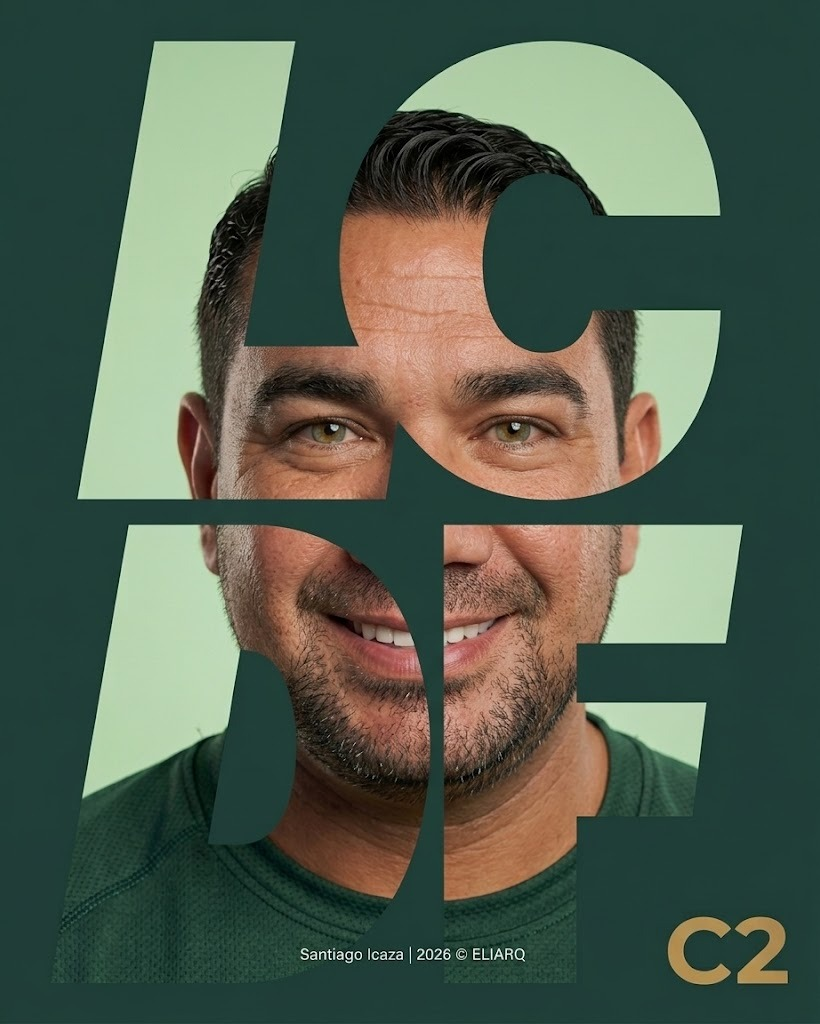
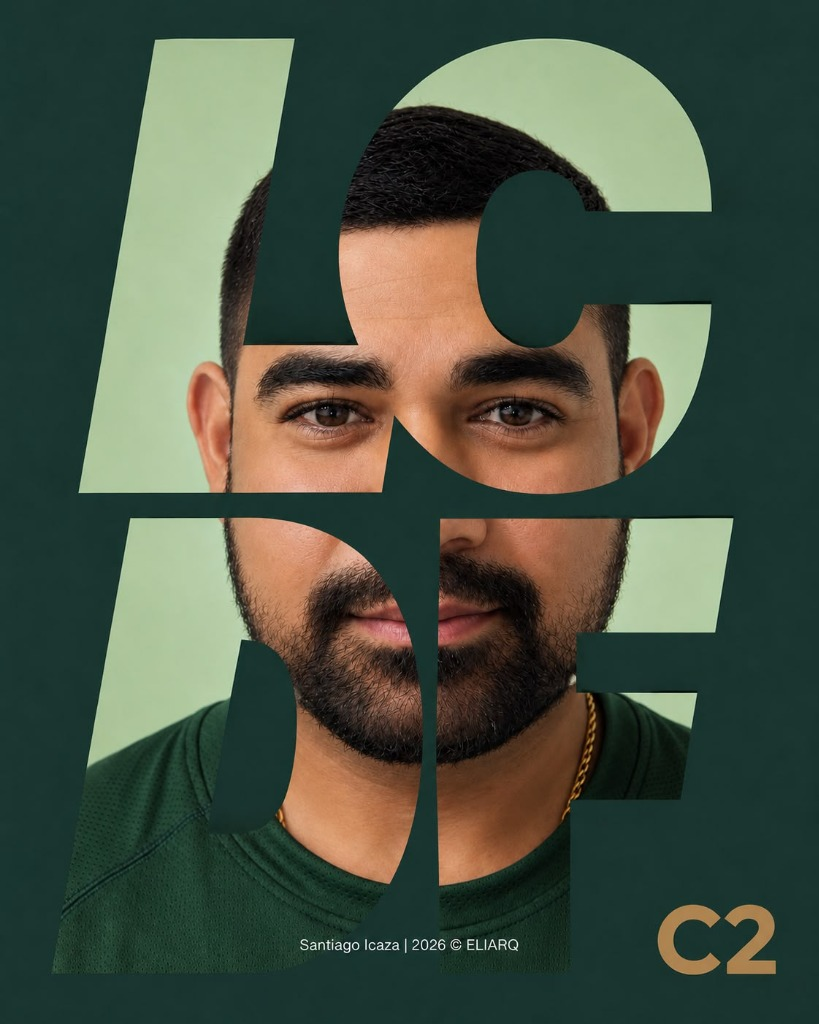
Add Captains section with photos and legendary descriptions

diff --git a/src/pages/Players.jsx b/src/pages/Players.jsx
@@ -146,6 +146,86 @@ export default function Players({ players }) {
         })}
       </div>
 
+      {/* ═══════════════ CAPTAINS SECTION ═══════════════ */}
+      <div style={{ marginTop: '4rem', borderRadius: '24px', overflow: 'hidden', boxShadow: '0 10px 40px rgba(0,0,0,0.6)' }}>
+        
+        {/* HEADER */}
+        <div style={{ background: 'linear-gradient(135deg, #1a1a2e 0%, #16213e 50%, #0f3460 100%)', padding: '3rem 2rem', textAlign: 'center' }}>
+          <h3 style={{ fontFamily: 'var(--font-heading)', textTransform: 'uppercase', marginBottom: '0.5rem', letterSpacing: '4px', fontSize: '2.5rem', fontWeight: '900', color: '#e1c16e', textShadow: '0 4px 20px rgba(225,193,110,0.3)' }}>
+            ⚽ LOS CAPITANES ⚽
+          </h3>
+          <p style={{ color: 'rgba(255,255,255,0.6)', fontSize: '1rem', letterSpacing: '2px', textTransform: 'uppercase', margin: 0 }}>Los pilares de La Catedral del Fútbol</p>
+        </div>
+
+        {/* C1 — FABRICIO SÁNCHEZ (Negro) */}
+        <div style={{ display: 'flex', flexWrap: 'wrap', background: 'linear-gradient(135deg, #1a1a1a 0%, #2d2d2d 100%)' }}>
+          <div style={{ flex: '1 1 300px', minHeight: '400px' }}>
+            <img src="/captains/fabricio.jpg" alt="Fabricio Sánchez" style={{ width: '100%', height: '100%', objectFit: 'cover' }} />
+          </div>
+          <div style={{ flex: '1 1 300px', padding: '2.5rem', display: 'flex', flexDirection: 'column', justifyContent: 'center' }}>
+            <div style={{ display: 'flex', alignItems: 'center', gap: '1rem', marginBottom: '1rem' }}>
+              <span style={{ background: '#e1c16e', color: 'black', padding: '4px 12px', borderRadius: '6px', fontWeight: '900', fontFamily: 'var(--font-heading)', fontSize: '1.2rem' }}>C1</span>
+              <h4 style={{ margin: 0, fontSize: '1.8rem', fontWeight: '900', color: '#e1c16e', fontFamily: 'var(--font-heading)', textTransform: 'uppercase' }}>FABRICIO SÁNCHEZ</h4>
+            </div>
+            <p style={{ color: 'rgba(255,255,255,0.5)', fontSize: '0.85rem', fontStyle: 'italic', marginBottom: '1rem', letterSpacing: '1px' }}>🎙 Voz engolada, con pausas dramáticas y arrastrando las 'rr'</p>
+            <p style={{ color: 'rgba(255,255,255,0.9)', lineHeight: '1.7', fontSize: '0.95rem', margin: 0 }}>
+              "¡Atención, Ecuador! ¡Aquí está Fabricio Sánchez, señoras y señores! No es un simple mortal, ¡es <strong style={{ color: '#e1c16e' }}>'RAUNALDO'</strong>, el titán que viste la túnica de la noche! Es el <strong style={{ color: '#e1c16e' }}>'Artillero del Gol'</strong>, poseedor de una paciencia inquebrantable, una fe que mueve montañas. ¿Y qué si de cien intentos, la pelota solo besa la red una vez? <strong style={{ color: '#e1c16e' }}>¡Ese único grito sagrado vale por una epopeya entera!</strong> Porque cuando 'Raunaldo' la emboca, no es un gol cualquiera, ¡es un <strong style={{ color: '#e1c16e' }}>GOL CON BIGOTE!</strong> Un grito con jerarquía, un testarazo al destino que lleva la estampa de la virilidad balompédica. Moldeado en el crisol del sufrimiento y la disciplina por el <strong style={{ color: '#e1c16e' }}>Profe Dave</strong> —ese escultor de músculos y voluntades—, y bendecido por los lazos sagrados de la administración. Fabricio Sánchez, <strong style={{ color: '#e1c16e' }}>¡UNA LEYENDA QUE SE ESCRIBE GOL A GOL, AUNQUE EL CAMINO SEA LARGO!</strong>"
+            </p>
+          </div>
+        </div>
+
+        {/* C2 — SANTIAGO ICAZA (Verde) */}
+        <div style={{ display: 'flex', flexWrap: 'wrap', background: 'linear-gradient(135deg, #1b4332 0%, #2d6a4f 100%)', flexDirection: 'row-reverse' }}>
+          <div style={{ flex: '1 1 300px', minHeight: '400px' }}>
+            <img src="/captains/santiago.jpg" alt="Santiago Icaza" style={{ width: '100%', height: '100%', objectFit: 'cover' }} />
+          </div>
+          <div style={{ flex: '1 1 300px', padding: '2.5rem', display: 'flex', flexDirection: 'column', justifyContent: 'center' }}>
+            <div style={{ display: 'flex', alignItems: 'center', gap: '1rem', marginBottom: '1rem' }}>
+              <span style={{ background: '#e1c16e', color: 'black', padding: '4px 12px', borderRadius: '6px', fontWeight: '900', fontFamily: 'var(--font-heading)', fontSize: '1.2rem' }}>C2</span>
+              <h4 style={{ margin: 0, fontSize: '1.8rem', fontWeight: '900', color: '#e1c16e', fontFamily: 'var(--font-heading)', textTransform: 'uppercase' }}>SANTIAGO ICAZA</h4>
+            </div>
+            <p style={{ color: 'rgba(255,255,255,0.5)', fontSize: '0.85rem', fontStyle: 'italic', marginBottom: '1rem', letterSpacing: '1px' }}>🎙 Tono solemne, reverente, casi poético</p>
+            <p style={{ color: 'rgba(255,255,255,0.9)', lineHeight: '1.7', fontSize: '0.95rem', margin: 0 }}>
+              "¡Pónganse de pie para recibir a Santiago Icaza! Envuélvete, cantera, en el manto verde de la esperanza, porque aquí camina <strong style={{ color: '#e1c16e' }}>'El Santi'</strong>. No busquen simplemente a un futbolista; busquen al <strong style={{ color: '#e1c16e' }}>CAPITÁN POR EXCELENCIA</strong>. Un señor, un lord de la cancha, un caballero que trata a la pelota con la dulzura de un primer amor y al rival con el respeto de un viejo amigo. Icaza es el faro en la tormenta, la palabra calma en la batalla. De sus labios brotó la sentencia más noble, el himno de los soñadores: <strong style={{ color: '#e1c16e' }}>'AUNQUE SEAMOS MALITOS, AQUÍ VENIMOS TODOS A DESESTRESARNOS'</strong>. ¡Qué frase, Dios mío, qué declaración de amor puro al juego! Es entender que la victoria no está en el marcador, sino en el abrazo fraterno tras el pitazo final. <strong style={{ color: '#e1c16e' }}>¡SANTIAGO ICAZA, EL ALMA MISMA DE ESTE DEPORTE!</strong>"
+            </p>
+          </div>
+        </div>
+
+        {/* C3 — CARLOS RAÚL ALVARADO (Azul) */}
+        <div style={{ display: 'flex', flexWrap: 'wrap', background: 'linear-gradient(135deg, #0a1172 0%, #1338be 100%)' }}>
+          <div style={{ flex: '1 1 300px', minHeight: '400px' }}>
+            <img src="/captains/carlos.jpg" alt="Carlos Raúl Alvarado" style={{ width: '100%', height: '100%', objectFit: 'cover' }} />
+          </div>
+          <div style={{ flex: '1 1 300px', padding: '2.5rem', display: 'flex', flexDirection: 'column', justifyContent: 'center' }}>
+            <div style={{ display: 'flex', alignItems: 'center', gap: '1rem', marginBottom: '1rem' }}>
+              <span style={{ background: '#e1c16e', color: 'black', padding: '4px 12px', borderRadius: '6px', fontWeight: '900', fontFamily: 'var(--font-heading)', fontSize: '1.2rem' }}>C3</span>
+              <h4 style={{ margin: 0, fontSize: '1.8rem', fontWeight: '900', color: '#e1c16e', fontFamily: 'var(--font-heading)', textTransform: 'uppercase' }}>CARLOS RAÚL ALVARADO</h4>
+            </div>
+            <p style={{ color: 'rgba(255,255,255,0.5)', fontSize: '0.85rem', fontStyle: 'italic', marginBottom: '1rem', letterSpacing: '1px' }}>🎙 Tono pasional, crescendo vocal, casi agónico</p>
+            <p style={{ color: 'rgba(255,255,255,0.9)', lineHeight: '1.7', fontSize: '0.95rem', margin: 0 }}>
+              "¡Escuchen ese estruendo! ¡Es Carlos Raúl Alvarado, <strong style={{ color: '#e1c16e' }}>'EL GRITO DEL GOL'</strong>! Un hombre que no juega al fútbol, <strong style={{ color: '#e1c16e' }}>¡LO PADECE, LO SUFRE, LO GRITA DESDE LAS ENTRAÑAS!</strong> Su garganta es un volcán en erupción que se anticipa a la jugada, un trueno que resuena antes que el balón toque la red. ¿Cabello? ¡Bah, detalles! Su pasión es tan inmensa que la melena le queda chica. Dicen los puristas que tiene el alma dividida, que su espíritu está más cerca del silbato del árbitro que del botín del goleador. Un visionario de las faltas, un <strong style={{ color: '#e1c16e' }}>PROFETA DEL OFFSIDE</strong> que imparte justicia a viva voz mientras corre detrás de la de gajos. <strong style={{ color: '#e1c16e' }}>¡CARLOS RAÚL ALVARADO, EL GRITO QUE DESGARRA LA TARDE, LA PASIÓN DESBOCADA QUE NOS RECUERDA QUE EL FÚTBOL ES SENTIMIENTO PURO!</strong>"
+            </p>
+          </div>
+        </div>
+
+        {/* C4 — LUCHO PULLEY (Concho de vino) */}
+        <div style={{ display: 'flex', flexWrap: 'wrap', background: 'linear-gradient(135deg, #4a1942 0%, #6b2d5b 100%)', flexDirection: 'row-reverse' }}>
+          <div style={{ flex: '1 1 300px', minHeight: '400px' }}>
+            <img src="/captains/lucho.jpg" alt="Lucho Pulley" style={{ width: '100%', height: '100%', objectFit: 'cover' }} />
+          </div>
+          <div style={{ flex: '1 1 300px', padding: '2.5rem', display: 'flex', flexDirection: 'column', justifyContent: 'center' }}>
+            <div style={{ display: 'flex', alignItems: 'center', gap: '1rem', marginBottom: '1rem' }}>
+              <span style={{ background: '#e1c16e', color: 'black', padding: '4px 12px', borderRadius: '6px', fontWeight: '900', fontFamily: 'var(--font-heading)', fontSize: '1.2rem' }}>C4</span>
+              <h4 style={{ margin: 0, fontSize: '1.8rem', fontWeight: '900', color: '#e1c16e', fontFamily: 'var(--font-heading)', textTransform: 'uppercase' }}>LUCHO PULLEY</h4>
+            </div>
+            <p style={{ color: 'rgba(255,255,255,0.5)', fontSize: '0.85rem', fontStyle: 'italic', marginBottom: '1rem', letterSpacing: '1px' }}>🎙 Tono misterioso, con un toque de complicidad y humor</p>
+            <p style={{ color: 'rgba(255,255,255,0.9)', lineHeight: '1.7', fontSize: '0.95rem', margin: 0 }}>
+              "¡Abran paso, que llega el <strong style={{ color: '#e1c16e' }}>'INFANTINO DEL PELOTEO'</strong>! Lucho Pulley, envuelto en el color concho de vino de las grandes gestas y las mejores cosechas. Un estratega del destino, señoras y señores. Es esa fuerza magnética donde el azar y la 'casualidad' se rinden ante su presencia. ¿Un rebote extraño? Va a los pies de Lucho. ¿Una falta dudosa? Siempre a favor del Infantino. Todo conspira, todo se alinea para que su equipo sonría. Pero no se confundan, detrás de ese misticismo dirigencial, late un <strong style={{ color: '#e1c16e' }}>CORAZÓN DE ORO</strong>, una bondad inabarcable que solo se compara con su amor por el deporte... <strong style={{ color: '#e1c16e' }}>¡Y POR UN BUEN CORTE DE CARNE A LA PARRILLA!</strong> Lucho Pulley, el hombre que domina el reglamento con una mano y el asador con la otra. <strong style={{ color: '#e1c16e' }}>¡UN MITO VIVIENTE!</strong>"
+            </p>
+          </div>
+        </div>
+      </div>
+
       {/* SPONSORS SECTION - VIP BANNER */}
       <div style={{ marginTop: '4rem', borderRadius: '24px', overflow: 'hidden', boxShadow: '0 10px 40px rgba(0,0,0,0.6)' }}>
         
